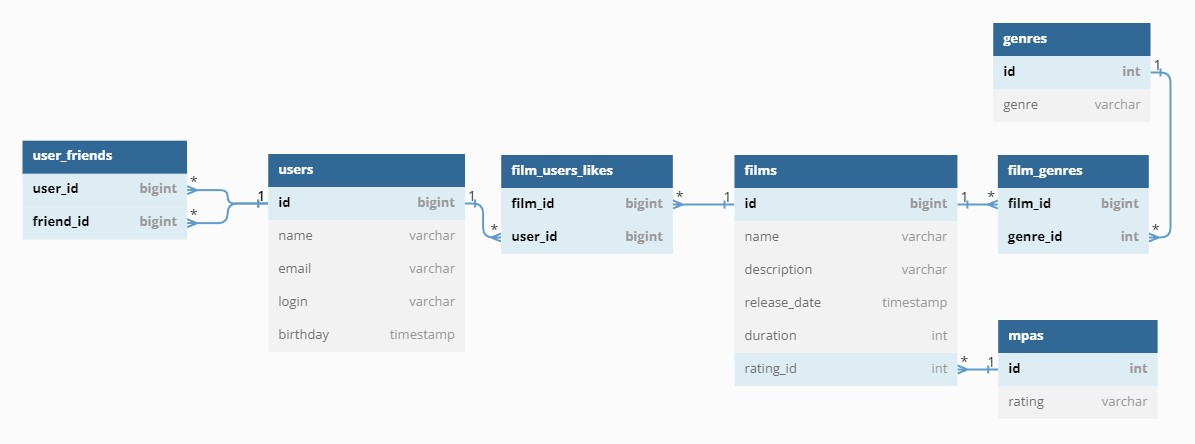
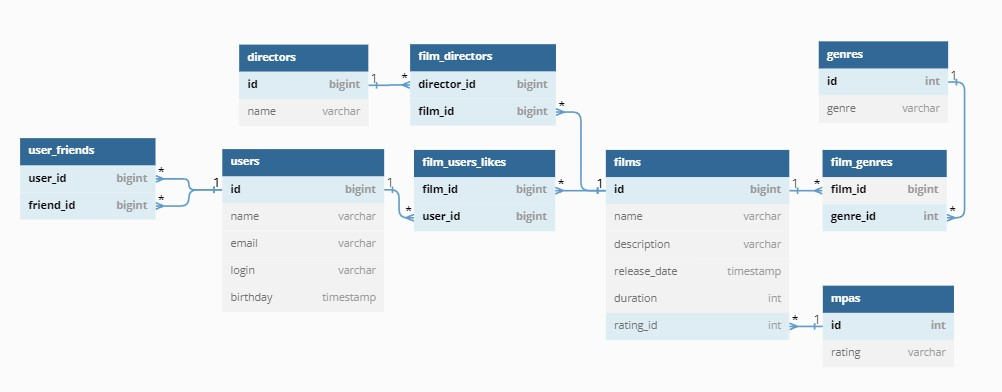
Создана функциональность режиссера от модели сущности до контроллера

diff --git a/src/main/java/ru/yandex/practicum/filmorate/storage/dao/DirectorDao.java b/src/main/java/ru/yandex/practicum/filmorate/storage/dao/DirectorDao.java
@@ -1,0 +1,87 @@
+package ru.yandex.practicum.filmorate.storage.dao;
+
+import org.springframework.dao.DataAccessException;
+import org.springframework.jdbc.core.JdbcTemplate;
+import org.springframework.jdbc.core.simple.SimpleJdbcInsert;
+import org.springframework.stereotype.Repository;
+import org.springframework.transaction.annotation.Transactional;
+import ru.yandex.practicum.filmorate.model.Director;
+import ru.yandex.practicum.filmorate.storage.DirectorStorage;
+import ru.yandex.practicum.filmorate.util.Mapper;
+
+import java.util.List;
+
+@Repository("directorDao")
+public class DirectorDao implements DirectorStorage {
+    private final JdbcTemplate jdbcTemplate;
+
+    public DirectorDao(JdbcTemplate jdbcTemplate) {
+        this.jdbcTemplate = jdbcTemplate;
+    }
+
+    @Override
+    @Transactional
+    public Director getDirectorById(long id) {
+        String sqlQuery = "SELECT *\n" +
+                "FROM directors AS d\n" +
+                "WHERE id = ?;";
+
+        try {
+            return jdbcTemplate.queryForObject(sqlQuery, Mapper::mapRowToDirector, id);
+        } catch (DataAccessException e) {
+            return null;
+        }
+    }
+
+    @Override
+    @Transactional
+    public List<Director> getAllDirectors() {
+        String sqlQuery = "SELECT *\n" +
+                "FROM directors\n" +
+                "ORDER BY id;";
+
+        return jdbcTemplate.query(sqlQuery, Mapper::mapRowToDirector);
+    }
+
+    @Override
+    @Transactional
+    public Director addDirector(Director director) {
+        long directorId = new SimpleJdbcInsert(jdbcTemplate)
+                .withTableName("directors")
+                .usingGeneratedKeyColumns("id")
+                .executeAndReturnKey(Mapper.directorToMap(director)).longValue();
+
+        return getDirectorById(directorId);
+    }
+
+    @Override
+    @Transactional
+    public Director updateDirector(Director director) {
+        String sqlQuery = "UPDATE directors\n" +
+                "SET name = ?\n" +
+                "WHERE id = ?;";
+
+        try {
+            jdbcTemplate.update(sqlQuery, director.getName(), director.getId());
+        } catch (DataAccessException e) {
+            return null;
+        }
+
+        return getDirectorById(director.getId());
+    }
+
+    @Override
+    @Transactional
+    public Director removeDirector(long id) {
+        String sqlQuery = "DELETE FROM directors\n" +
+                "WHERE id = ?;";
+
+        try {
+            jdbcTemplate.update(sqlQuery, id);
+        } catch (DataAccessException e) {
+            return null;
+        }
+
+        return getDirectorById(id);
+    }
+}

diff --git a/src/main/java/ru/yandex/practicum/filmorate/service/dal/DirectorServiceImpl.java b/src/main/java/ru/yandex/practicum/filmorate/service/dal/DirectorServiceImpl.java
@@ -1,0 +1,69 @@
+package ru.yandex.practicum.filmorate.service.dal;
+
+import org.springframework.stereotype.Service;
+import ru.yandex.practicum.filmorate.exception.entity.EntityAlreadyExistsException;
+import ru.yandex.practicum.filmorate.exception.entity.EntityNotDeletedException;
+import ru.yandex.practicum.filmorate.exception.entity.EntityNotFoundException;
+import ru.yandex.practicum.filmorate.model.Director;
+import ru.yandex.practicum.filmorate.service.DirectorService;
+import ru.yandex.practicum.filmorate.storage.DirectorStorage;
+
+import java.util.List;
+
+@Service
+public class DirectorServiceImpl implements DirectorService {
+    private final DirectorStorage storage;
+
+    public DirectorServiceImpl(DirectorStorage storage) {
+        this.storage = storage;
+    }
+
+    @Override
+    public Director getDirectorById(long id) {
+        Director directorOnDb = storage.getDirectorById(id);
+
+        if (directorOnDb == null) {
+            throw new EntityNotFoundException(String.format("Режиссер с ID = %s не найден", id));
+        }
+
+        return directorOnDb;
+    }
+
+    @Override
+    public List<Director> getAllDirectors() {
+        return storage.getAllDirectors();
+    }
+
+    @Override
+    public Director addDirector(Director director) {
+        Director directorOnDb = storage.addDirector(director);
+
+        if (directorOnDb == null) {
+            throw new EntityAlreadyExistsException(String.format("Режиссер с ID = %s уже добавлен", director.getId()));
+        }
+
+        return directorOnDb;
+    }
+
+    @Override
+    public Director updateDirector(Director director) {
+        Director directorOnDb = storage.updateDirector(director);
+
+        if (directorOnDb == null) {
+            throw new EntityNotFoundException(String.format("Режиссер с ID = %s не найден", director.getId()));
+        }
+
+        return directorOnDb;
+    }
+
+    @Override
+    public Director removeDirector(long id) {
+        Director directorOnDb = storage.removeDirector(id);
+
+        if (directorOnDb != null) {
+            throw new EntityNotDeletedException(String.format("Режиссер с ID = %s найден после удаления", id));
+        }
+
+        return null;
+    }
+}

diff --git a/src/main/java/ru/yandex/practicum/filmorate/handler/ErrorHandler.java b/src/main/java/ru/yandex/practicum/filmorate/handler/ErrorHandler.java
@@ -5,6 +5,7 @@ import org.springframework.web.bind.annotation.ExceptionHandler;
 import org.springframework.web.bind.annotation.ResponseStatus;
 import org.springframework.web.bind.annotation.RestControllerAdvice;
 import ru.yandex.practicum.filmorate.exception.entity.EntityAlreadyExistsException;
+import ru.yandex.practicum.filmorate.exception.entity.EntityNotDeletedException;
 import ru.yandex.practicum.filmorate.exception.entity.EntityNotFoundException;
 import ru.yandex.practicum.filmorate.exception.ValidationException;
 import ru.yandex.practicum.filmorate.exception.film.FilmAlreadyLikedException;
@@ -22,7 +23,7 @@ public class ErrorHandler {
         return Map.of("Validation error", e.getMessage());
     }
 
-    @ExceptionHandler({EntityNotFoundException.class})
+    @ExceptionHandler(EntityNotFoundException.class)
     @ResponseStatus(HttpStatus.NOT_FOUND)
     public Map<String, String> notFoundException(final RuntimeException e) {
         return Map.of("Not found", e.getMessage());
@@ -32,7 +33,8 @@ public class ErrorHandler {
             UserNotOnFriendsException.class,
             FilmAlreadyLikedException.class,
             FilmNotLikedException.class,
-            EntityAlreadyExistsException.class})
+            EntityAlreadyExistsException.class,
+            EntityNotDeletedException.class})
     @ResponseStatus(HttpStatus.INTERNAL_SERVER_ERROR)
     public Map<String, String> runtimeExceptions(final RuntimeException e) {
         return Map.of("Error", e.getMessage());

diff --git a/src/main/java/ru/yandex/practicum/filmorate/controller/DirectorController.java b/src/main/java/ru/yandex/practicum/filmorate/controller/DirectorController.java
@@ -1,0 +1,45 @@
+package ru.yandex.practicum.filmorate.controller;
+
+import org.springframework.http.HttpStatus;
+import org.springframework.web.bind.annotation.*;
+import ru.yandex.practicum.filmorate.model.Director;
+import ru.yandex.practicum.filmorate.service.DirectorService;
+
+import javax.validation.Valid;
+import java.util.List;
+
+@RestController
+@RequestMapping("/directors")
+public class DirectorController {
+    private DirectorService service;
+
+    public DirectorController(DirectorService service) {
+        this.service = service;
+    }
+
+    @GetMapping
+    public List<Director> getAllDirectors() {
+        return service.getAllDirectors();
+    }
+
+    @PostMapping
+    public Director addDirector(@Valid @RequestBody Director director) {
+        return service.addDirector(director);
+    }
+
+    @PutMapping
+    public Director updateDirector(@Valid @RequestBody Director director) {
+        return service.updateDirector(director);
+    }
+
+    @GetMapping("/{id}")
+    public Director getDirectorById(@PathVariable long id) {
+        return service.getDirectorById(id);
+    }
+
+    @DeleteMapping("/{id}")
+    @ResponseStatus(HttpStatus.OK)
+    public void removeDirector(@PathVariable long id) {
+        service.removeDirector(id);
+    }
+}

diff --git a/src/main/java/ru/yandex/practicum/filmorate/util/Mapper.java b/src/main/java/ru/yandex/practicum/filmorate/util/Mapper.java
@@ -41,6 +41,13 @@ public class Mapper {
         return new Mpa(rs.getInt("id"), rs.getString("rating"));
     }
 
+    public static final Director mapRowToDirector(ResultSet rs, int rowNum) throws SQLException {
+        return Director.builder()
+                .id(rs.getLong("id"))
+                .name(rs.getString("name"))
+                .build();
+    }
+
     public static final Map<String, Object> userToMap(User user) {
         return new HashMap<>() {{
             put("id", user.getId());
@@ -59,6 +66,13 @@ public class Mapper {
             put("release_date", film.getReleaseDate());
             put("duration", film.getDuration());
             put("rating_id", film.getMpa().getId());
+        }};
+    }
+
+    public static final Map<String, Object> directorToMap(Director director) {
+        return new HashMap<>() {{
+            put("id", director.getId());
+            put("name", director.getName());
         }};
     }
 }

diff --git a/src/main/java/ru/yandex/practicum/filmorate/service/DirectorService.java b/src/main/java/ru/yandex/practicum/filmorate/service/DirectorService.java
@@ -1,0 +1,17 @@
+package ru.yandex.practicum.filmorate.service;
+
+import ru.yandex.practicum.filmorate.model.Director;
+
+import java.util.List;
+
+public interface DirectorService {
+    Director getDirectorById(long id);
+
+    List<Director> getAllDirectors();
+
+    Director addDirector(Director director);
+
+    Director updateDirector(Director director);
+
+    Director removeDirector(long id);
+}

diff --git a/src/main/java/ru/yandex/practicum/filmorate/storage/DirectorStorage.java b/src/main/java/ru/yandex/practicum/filmorate/storage/DirectorStorage.java
@@ -1,0 +1,17 @@
+package ru.yandex.practicum.filmorate.storage;
+
+import ru.yandex.practicum.filmorate.model.Director;
+
+import java.util.List;
+
+public interface DirectorStorage {
+    Director getDirectorById(long id);
+
+    List<Director> getAllDirectors();
+
+    Director addDirector(Director director);
+
+    Director updateDirector(Director director);
+
+    Director removeDirector(long id);
+}

diff --git a/src/main/java/ru/yandex/practicum/filmorate/model/Director.java b/src/main/java/ru/yandex/practicum/filmorate/model/Director.java
@@ -1,0 +1,15 @@
+package ru.yandex.practicum.filmorate.model;
+
+import lombok.Builder;
+import lombok.Data;
+
+import javax.validation.constraints.NotBlank;
+
+@Data
+@Builder
+public class Director {
+    private long id;
+
+    @NotBlank(message = "Имя режиссера не может быть пустым")
+    private String name;
+}

diff --git a/src/main/java/ru/yandex/practicum/filmorate/exception/entity/EntityNotDeletedException.java b/src/main/java/ru/yandex/practicum/filmorate/exception/entity/EntityNotDeletedException.java
@@ -1,0 +1,7 @@
+package ru.yandex.practicum.filmorate.exception.entity;
+
+public class EntityNotDeletedException extends RuntimeException {
+    public EntityNotDeletedException(String message) {
+        super(message);
+    }
+}
